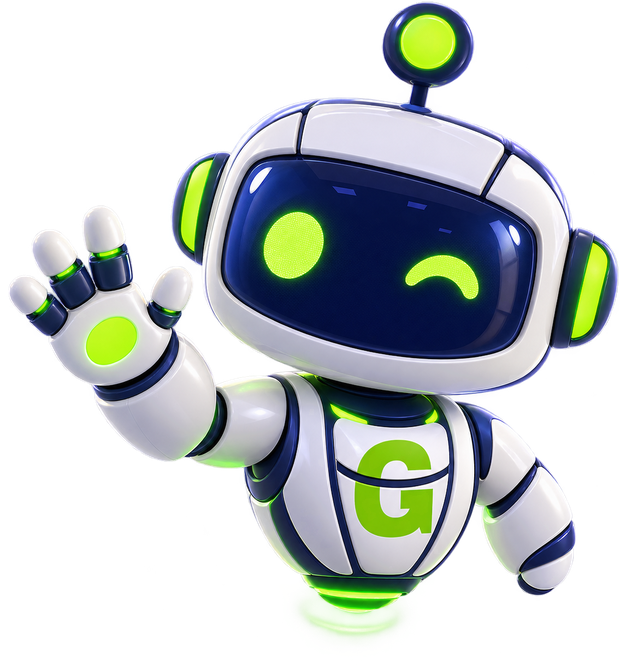
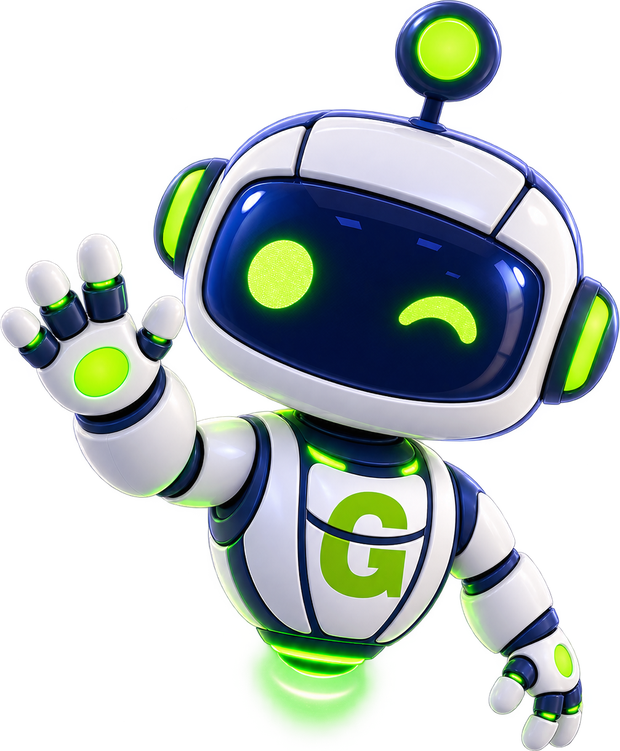
Adiciona redes sociais, botao Area do Assinante e nova mascote
- Instagram e Facebook reais no rodape (antes eram placeholders "#")
- Botao "Area do Assinante" no header (desktop), no menu mobile e
  no rodape, apontando para a central do assinante do SGP
- Evita duplicidade: o link do menu mobile fica oculto em telas
  largas, ja que o botao do header cobre esse caso
- Troca a mascote da hero pela nova renderizacao 3D (Mascote
  Renderizada 3D-3.png), recortada por alpha e otimizada em WebP/PNG

diff --git a/index.html b/index.html
@@ -30,7 +30,7 @@
 <link href="https://fonts.googleapis.com/css2?family=Baloo+2:wght@500;700;800&display=swap" rel="stylesheet">
 
 <link rel="preload" as="image" href="assets/img/mascote-3d.webp" fetchpriority="high">
-<link rel="stylesheet" href="css/style.css?v=5">
+<link rel="stylesheet" href="css/style.css?v=6">
 
 <script type="application/ld+json">
 {
@@ -81,6 +81,7 @@
       <a href="#cadastro">Cadastre-se</a>
       <a href="#duvidas">Dúvidas</a>
       <a href="#contato">Contato</a>
+      <a class="nav-assinante" href="https://gigabomprovedor.sgp.net.br/accounts/central/login" target="_blank" rel="noopener">Área do Assinante</a>
     </nav>
 
     <div class="header-actions">
@@ -88,6 +89,7 @@
         <svg viewBox="0 0 24 24" fill="none" stroke="currentColor" stroke-width="2"><path d="M12 21s-7-6.1-7-11a7 7 0 0 1 14 0c0 4.9-7 11-7 11Z"/><circle cx="12" cy="10" r="2.5"/></svg>
         <span id="cityPillLabel">Escolher cidade</span>
       </button>
+      <a class="btn btn-outline btn-primary-desktop" href="https://gigabomprovedor.sgp.net.br/accounts/central/login" target="_blank" rel="noopener">Área do Assinante</a>
       <a class="btn btn-primary btn-primary-desktop" href="#cadastro">Fazer pré-cadastro</a>
       <button class="nav-toggle" id="navToggle" aria-label="Abrir menu" aria-expanded="false" aria-controls="mainNav">
         <svg viewBox="0 0 24 24" fill="none" stroke="currentColor" stroke-width="2"><path d="M4 7h16M4 12h16M4 17h16"/></svg>
@@ -121,7 +123,7 @@
     <div class="hero-media" data-reveal>
       <picture class="mascote-float">
         <source srcset="assets/img/mascote-3d.webp" type="image/webp">
-        <img src="assets/img/mascote-3d.png" alt="Mascote Gigabom, um robô flutuante amigável" width="450" height="482" fetchpriority="high">
+        <img src="assets/img/mascote-3d.png" alt="Mascote Gigabom, um robô flutuante amigável" width="620" height="751" fetchpriority="high">
       </picture>
       <div class="glow"></div>
     </div>
@@ -371,8 +373,8 @@
         </picture>
         <p>Internet fibra óptica no litoral norte do Rio Grande do Norte desde 2016.</p>
         <div class="footer-social" aria-label="Redes sociais">
-          <a href="#" aria-label="Instagram"><svg viewBox="0 0 24 24" fill="none" stroke="#fff" stroke-width="2"><rect x="3" y="3" width="18" height="18" rx="5"/><circle cx="12" cy="12" r="4"/><circle cx="17.5" cy="6.5" r="1"/></svg></a>
-          <a href="#" aria-label="Facebook"><svg viewBox="0 0 24 24" fill="none" stroke="#fff" stroke-width="2"><path d="M15 4h-2a4 4 0 0 0-4 4v3H7v4h2v7h4v-7h3l1-4h-4V8a1 1 0 0 1 1-1h3Z"/></svg></a>
+          <a href="https://www.instagram.com/gigabomprovedor/" target="_blank" rel="noopener" aria-label="Instagram"><svg viewBox="0 0 24 24" fill="none" stroke="#fff" stroke-width="2"><rect x="3" y="3" width="18" height="18" rx="5"/><circle cx="12" cy="12" r="4"/><circle cx="17.5" cy="6.5" r="1"/></svg></a>
+          <a href="https://www.facebook.com/gigabomprovedor?locale=pt_BR" target="_blank" rel="noopener" aria-label="Facebook"><svg viewBox="0 0 24 24" fill="none" stroke="#fff" stroke-width="2"><path d="M15 4h-2a4 4 0 0 0-4 4v3H7v4h2v7h4v-7h3l1-4h-4V8a1 1 0 0 1 1-1h3Z"/></svg></a>
         </div>
       </div>
       <div class="footer-col">
@@ -390,6 +392,7 @@
           <li><a href="https://wa.me/558431902330" target="_blank" rel="noopener">WhatsApp (84) 3190-2330</a></li>
           <li>Seg. a Sáb.: 8h às 17h</li>
           <li><a href="https://gigabomprovedor.sgp.net.br/public/precadastro/F/" target="_blank" rel="noopener">Pré-cadastro online</a></li>
+          <li><a href="https://gigabomprovedor.sgp.net.br/accounts/central/login" target="_blank" rel="noopener">Área do Assinante</a></li>
         </ul>
       </div>
       <div class="footer-col">

diff --git a/css/style.css b/css/style.css
@@ -107,6 +107,9 @@ section{padding:76px 0}
   .nav-toggle{display:inline-flex}
   .header-actions .btn-primary-desktop{display:none}
 }
+@media (min-width:901px){
+  .main-nav .nav-assinante{display:none}
+}
 
 /* ===== Hero ===== */
 .hero{
